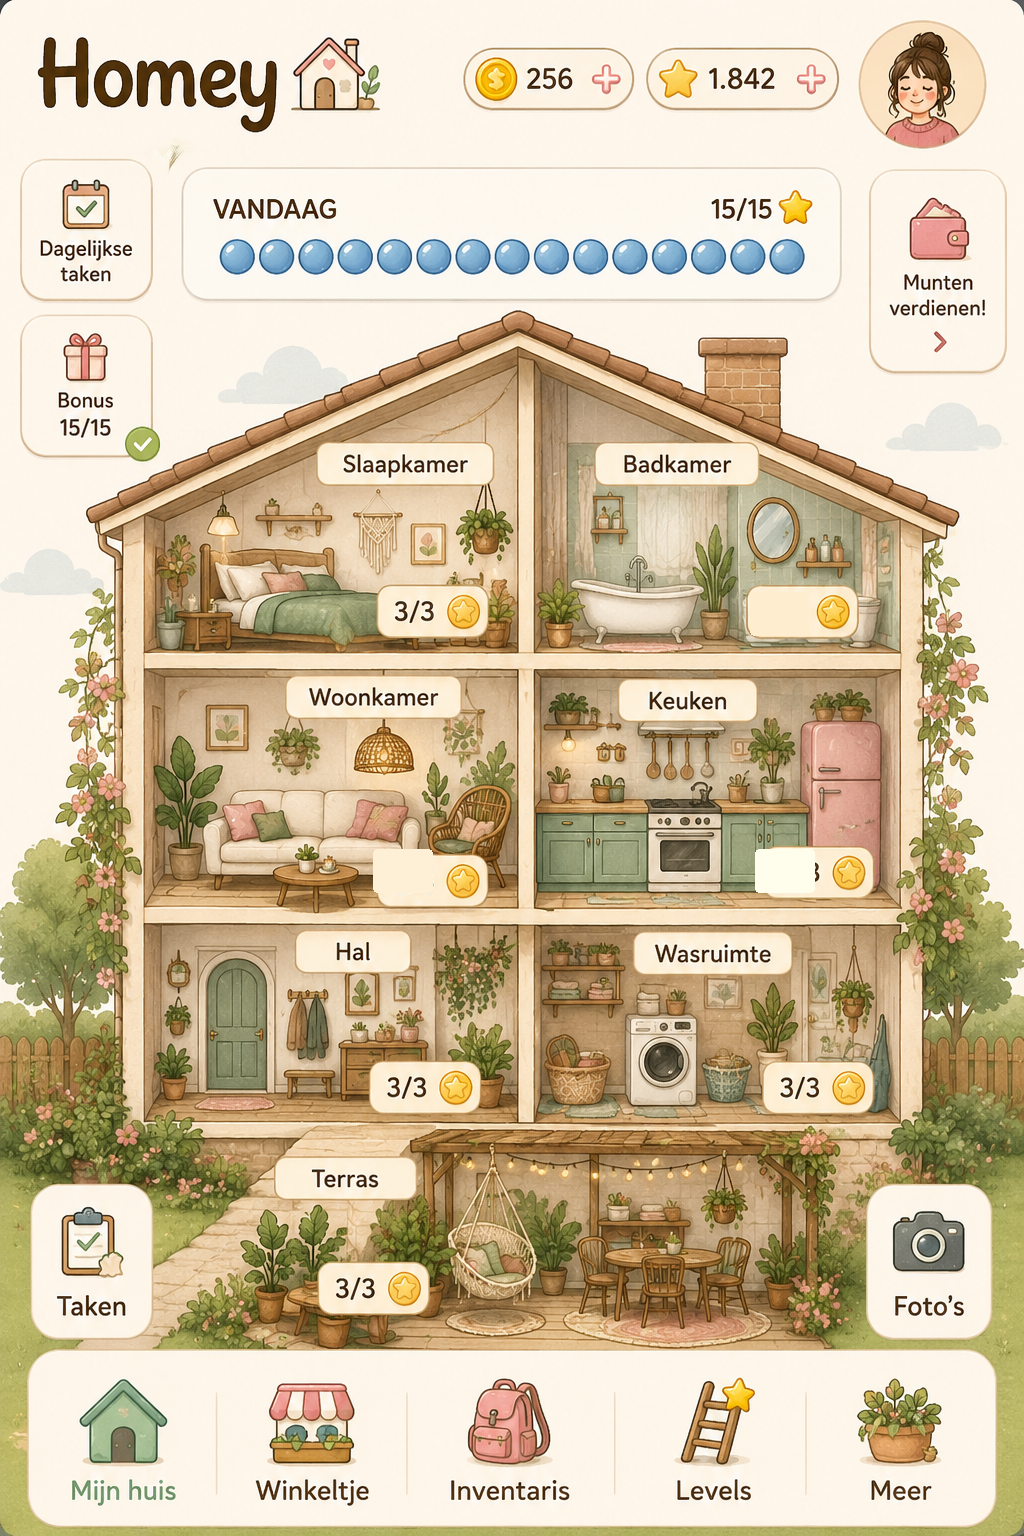
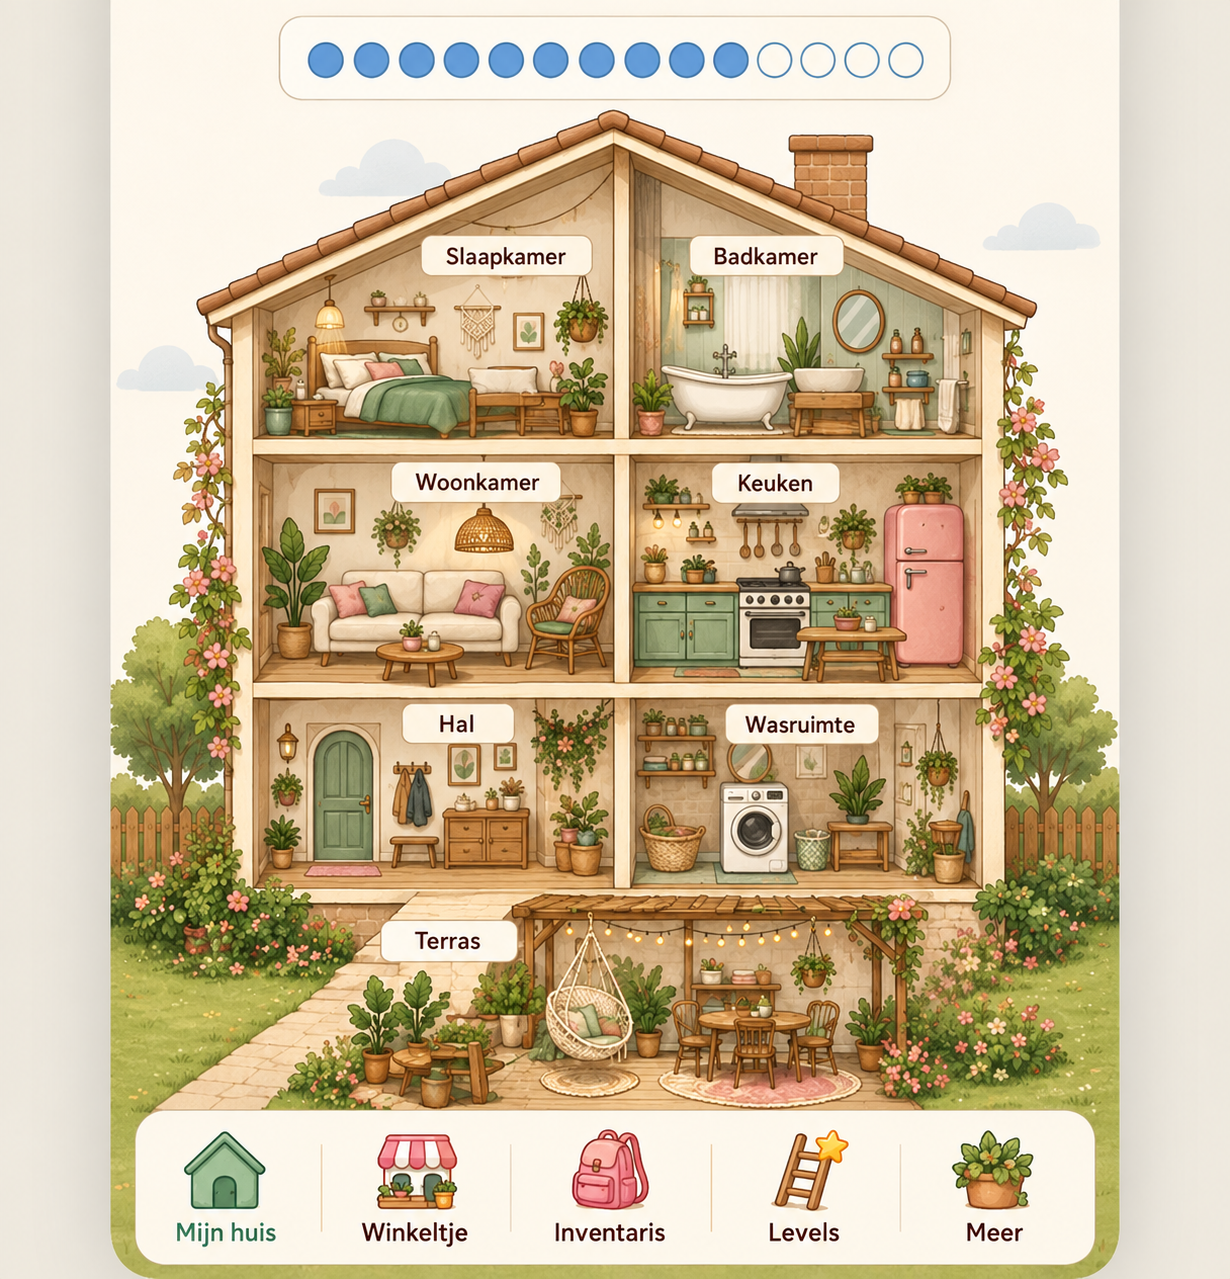
Add files via upload

diff --git a/style.css b/style.css
@@ -1003,80 +1003,5 @@
 .tasknum-kitchen{left:76.4%;top:56.7%}
 @media(max-width:520px){.home-room-tasknum{font-size:13px}}
 
-
-/* Originele Homey-teller als grafisch sjabloon */
-.home-room-tasknum,
-.original-counter-badge{
-  position:absolute;
-  z-index:25 !important;
-  transform:translate(-50%,-50%) !important;
-  width:14.2% !important;
-  height:4.45% !important;
-  box-sizing:border-box !important;
-  background-image:url("counter-original.png") !important;
-  background-size:100% 100% !important;
-  background-repeat:no-repeat !important;
-  background-position:center !important;
-  border:0 !important;
-  border-radius:0 !important;
-  box-shadow:none !important;
-  pointer-events:none !important;
-}
-
-/* De live cijfers bedekken uitsluitend de cijfers in het grafische sjabloon.
-   De originele rand/vorm/ster blijven zichtbaar. */
-.home-room-tasknum{
-  display:flex !important;
-  align-items:center !important;
-  justify-content:flex-start !important;
-  padding-left:4.1% !important;
-  color:#38261a !important;
-  font-family:Arial,sans-serif !important;
-  font-size:15px !important;
-  font-weight:700 !important;
-  line-height:1 !important;
-}
-.home-room-tasknum::before{
-  content:"";
-  position:absolute;
-  left:23%;
-  top:24%;
-  width:45%;
-  height:52%;
-  background:#fff4dc;
-  border-radius:3px;
-  z-index:-1;
-}
-.home-room-tasknum::after{content:none !important;}
-
-.tasknum-bathroom{left:76.1% !important;top:39.9% !important}
-.tasknum-living{left:39.2% !important;top:56.7% !important}
-.tasknum-kitchen{left:76.4% !important;top:56.7% !important}
-
-/* Gesloten kamers: dezelfde originele badgevorm, met slot bovenop de oude cijfers. */
-.original-counter-badge{
-  display:flex !important;
-  align-items:center !important;
-  justify-content:center !important;
-}
-.original-counter-badge::before{
-  content:"";
-  position:absolute;
-  left:20%;
-  top:20%;
-  width:60%;
-  height:60%;
-  background:#fff4dc;
-  border-radius:3px;
-  z-index:0;
-}
-.badge-lock{position:relative;z-index:1;font-size:18px;line-height:1}
-.badge-bedroom{left:43.0%;top:39.9%}
-.badge-laundry{left:79.0%;top:70.7%}
-.badge-hall{left:43.0%;top:70.7%}
-.badge-terrace{left:39.0%;top:83.7%}
-
-@media(max-width:520px){
-  .home-room-tasknum{font-size:13px !important}
-  .badge-lock{font-size:16px}
-}
+/* Nieuwe goedgekeurde schone basis: kamertellers worden later opnieuw opgebouwd. */
+.home-room-tasknum{display:none !important;}

diff --git a/index.html b/index.html
@@ -13,14 +13,6 @@
   <div class="home-value home-bonus"><span class="today">10</span>/15</div>
   <div id="homeBonusCheck" class="home-bonus-check"></div>
   <div class="home-value home-living-count"><span id="homeLivingDone">0</span>/6</div>
-  <div class="home-room-tasknum tasknum-bathroom" data-room-tasknum="Badkamer">0/4</div>
-  <div class="home-room-tasknum tasknum-living" data-room-tasknum="Woonkamer">0/6</div>
-  <div class="home-room-tasknum tasknum-kitchen" data-room-tasknum="Keuken">0/5</div>
-<div class="original-counter-badge badge-bedroom"><span class="badge-lock">🔒</span></div>
-<div class="original-counter-badge badge-laundry"><span class="badge-lock">🔒</span></div>
-<div class="original-counter-badge badge-hall"></div>
-<div class="original-counter-badge badge-terrace"></div>
-
 
 
   <button class="hot bedroom" data-overview></button><button class="hot bathroom" data-overview></button>
